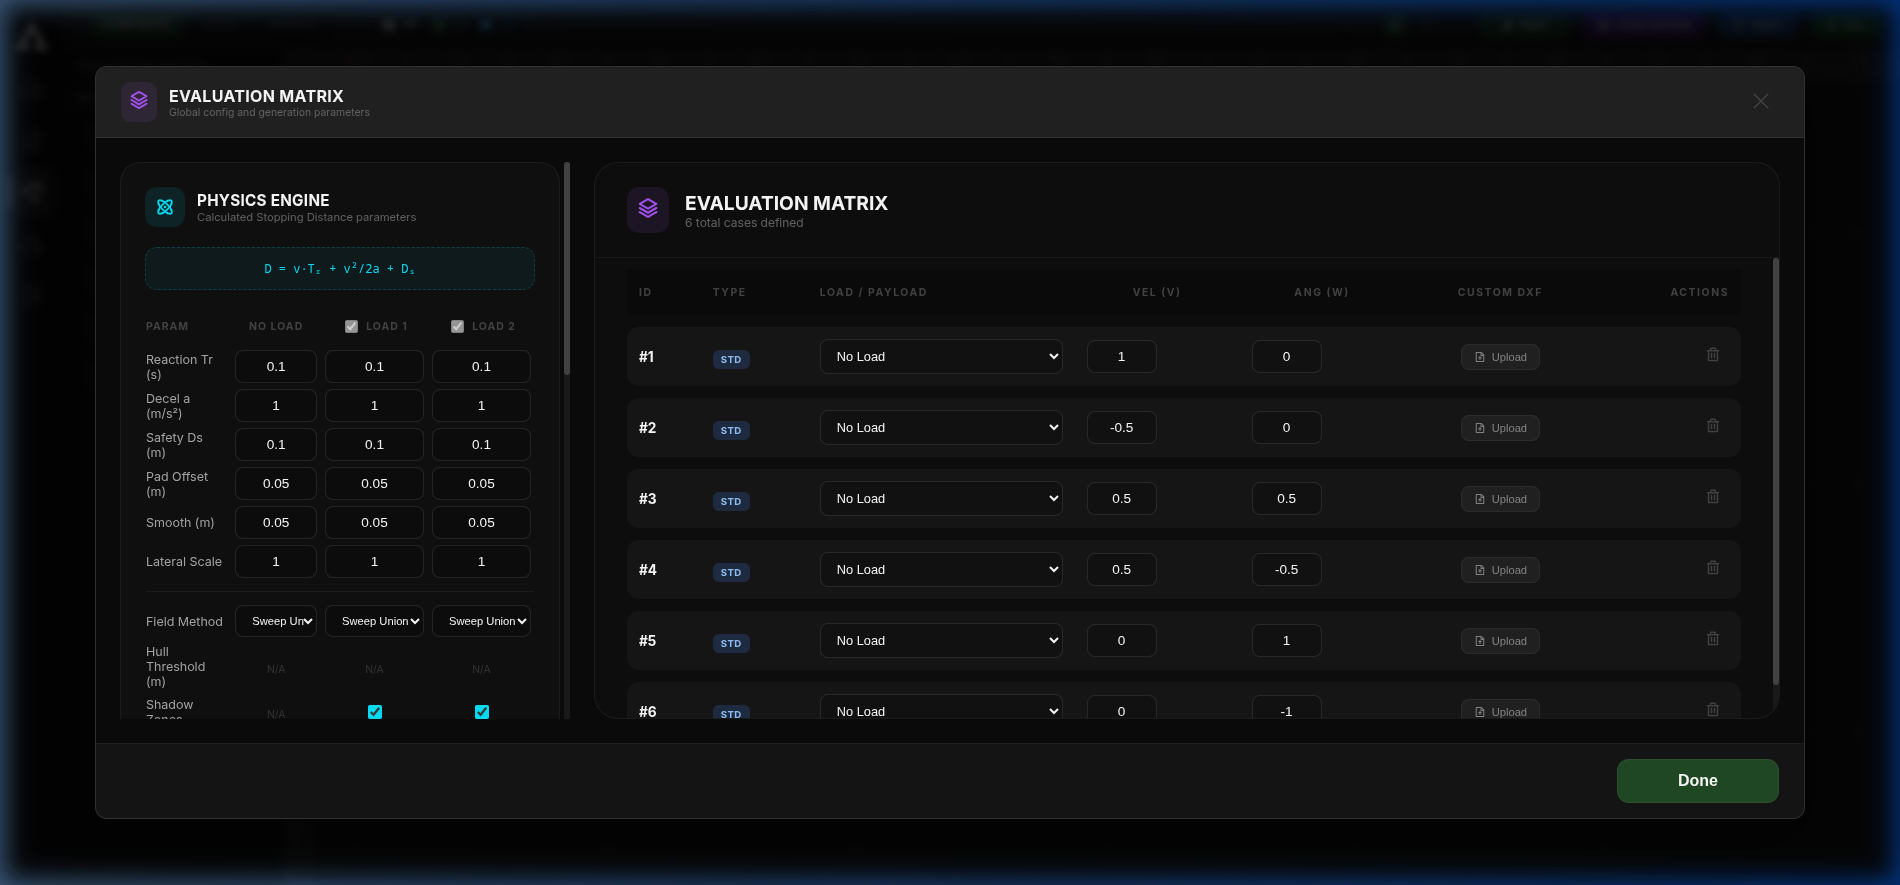
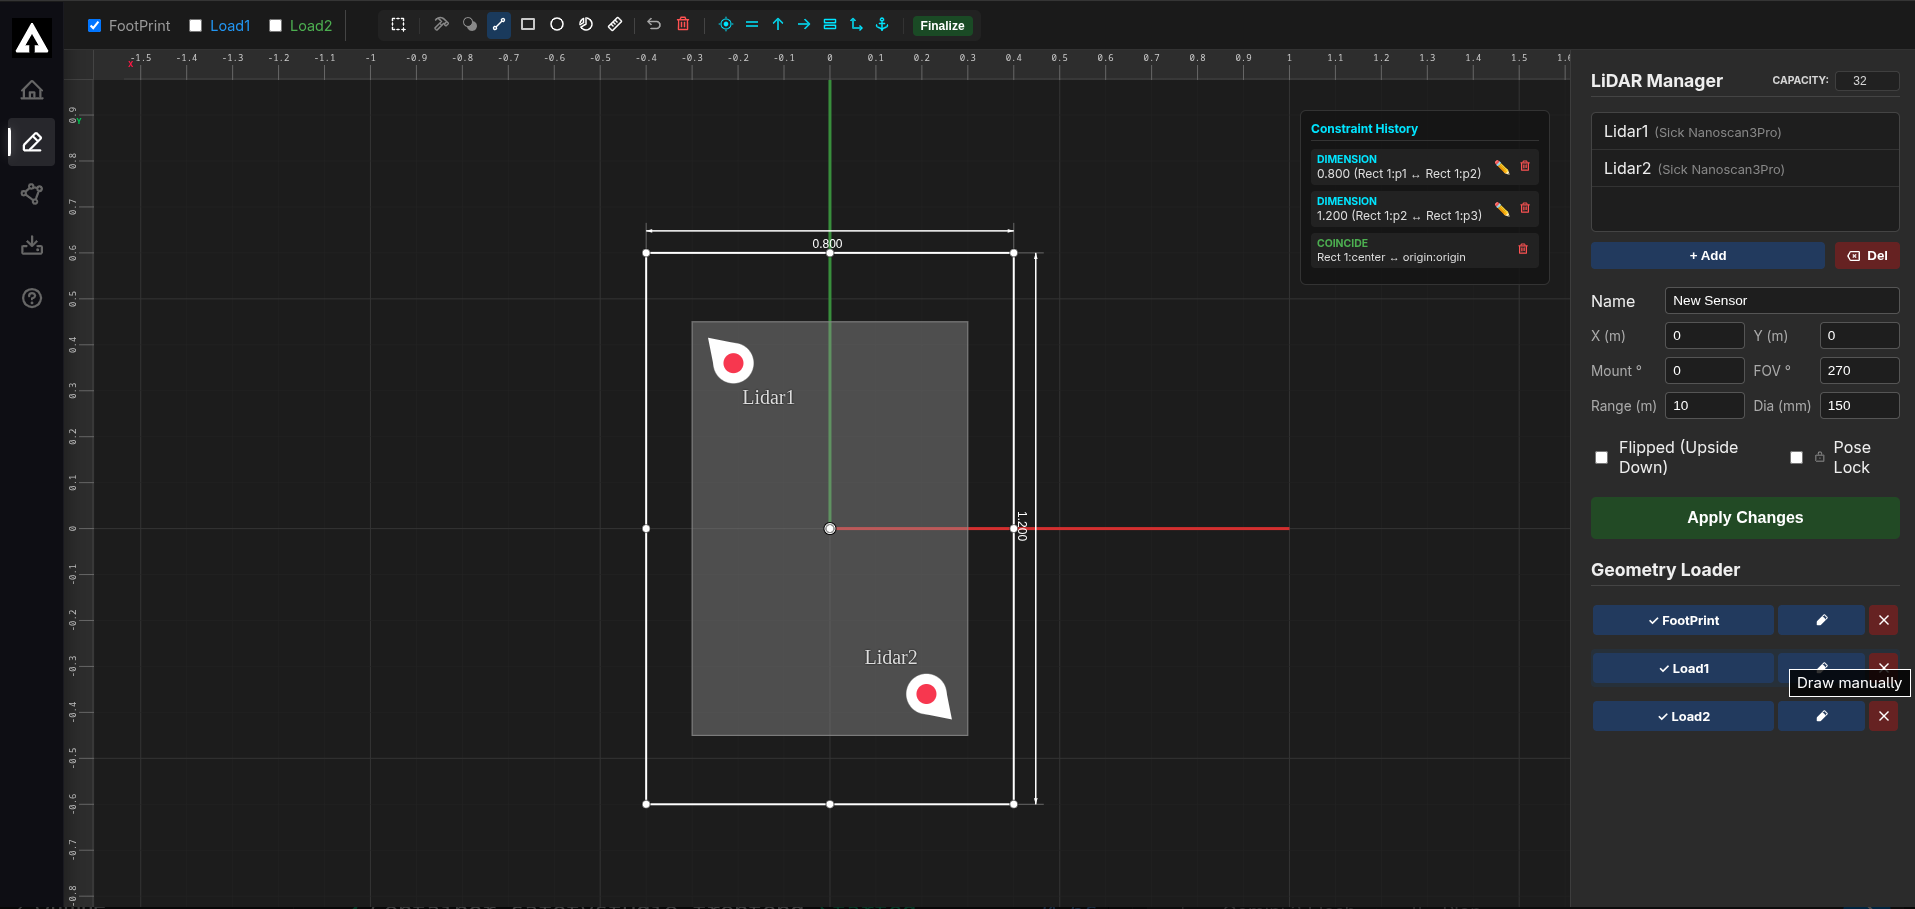
docs: exhaustive manual with thematic carousels and 26+ new screenshots

diff --git a/src/components/Help.js b/src/components/Help.js
@@ -1,7 +1,7 @@
 import React, { useState, useEffect } from 'react';
 import './Help.css';
 
-const ImageCarousel = ({ images, interval = 5000 }) => {
+const ImageCarousel = ({ images, interval = 6000 }) => {
   const [activeIndex, setActiveIndex] = useState(0);
 
   useEffect(() => {
@@ -17,7 +17,9 @@ const ImageCarousel = ({ images, interval = 5000 }) => {
         {images.map((img, idx) => (
           <div key={idx} className="carousel-slide">
             <img src={img.src} alt={img.alt} />
-            <div className="carousel-caption">{img.caption}</div>
+            <div className="carousel-caption">
+              <strong>{img.title}</strong>: {img.caption}
+            </div>
           </div>
         ))}
       </div>
@@ -37,15 +39,32 @@ const ImageCarousel = ({ images, interval = 5000 }) => {
 };
 
 const Help = () => {
+  const editorImages = [
+    { src: '/help/help_editor.png', title: 'CAD Foundation', alt: 'Editor Setup', caption: 'Defining the 900x600mm footprint and dual-corner LiDAR mounting.' },
+    { src: '/help/user_editor.png', title: 'Load Layers', alt: 'Load Setup', caption: 'Managing multiple payloads (Load 1 and Load 2) with distinct obstruction properties.' }
+  ];
+
+  const matrixImages = [
+    { src: '/help/help_matrix.png', title: 'Global Config', alt: 'Matrix Config', caption: 'Selecting field generation methods (Sweep Union vs Hybrid) and hull thresholds.' },
+    { src: '/help/help_matrix_generator.png', title: 'Case Generator', alt: 'Matrix Generator', caption: 'Automated generation of motion profiles across velocity intensities.' }
+  ];
+
   const resultImages = [
-    { src: '/help/user_results_composite.png', alt: 'Composite View', caption: 'Global Safety Field: The final merged protection zone.' },
-    { src: '/help/user_results_lidar.png', alt: 'LiDAR View', caption: 'Local Coordinate View: Field relative to the sensor lens.' },
-    { src: '/help/user_results_sweeps.png', alt: 'Sweeps View', caption: 'Trajectory Sweeps: Footprint path during braking.' }
+    { src: '/help/help_results_composite.png', title: 'Composite View', alt: 'Composite', caption: 'The final global safety field merged from all active sensors.' },
+    { src: '/help/help_results_lidar1.png', title: 'LiDAR 1 View', alt: 'Lidar1', caption: 'Local coordinate validation for the Front-Left sensor.' },
+    { src: '/help/help_results_lidar2.png', title: 'LiDAR 2 View', alt: 'Lidar2', caption: 'Local coordinate validation for the Rear-Right sensor.' },
+    { src: '/help/help_results_sweeps.png', title: 'Sweeps View', alt: 'Sweeps', caption: 'Visualizing the robot footprint trajectory during an emergency stop.' }
+  ];
+
+  const editingImages = [
+    { src: '/help/help_results_poly_edit.png', title: 'Polygon Editing', alt: 'Poly Edit', caption: 'Direct vertex manipulation: dragging nodes and adding new points to the field boundary.' },
+    { src: '/help/help_results_cad_union.png', title: 'CAD Union', alt: 'Union', caption: 'Merging additional CAD shapes into the generated safety field.' },
+    { src: '/help/help_results_cad_subtract.png', title: 'CAD Subtraction', alt: 'Subtract', caption: 'Carving out exclusion zones or complex apertures from the field geometry.' },
+    { src: '/help/help_results_cad_complex.png', title: 'Complex Intersections', alt: 'Complex', caption: 'Advanced boolean operations for high-precision field refinement.' }
   ];
 
   return (
     <div className="help-page-container">
-      {/* Table of Contents Sidebar */}
       <div className="help-sidebar">
         <h2 className="toc-title">User Manual</h2>
         <nav className="toc-nav">
@@ -71,125 +90,119 @@ const Help = () => {
         </nav>
       </div>
 
-      {/* Main Content Area */}
       <div className="help-content-area">
         <div id="introduction" className="help-doc-section">
           <h1 className="doc-main-title">Safety Studio User Manual</h1>
           <p className="doc-intro">
-            Safety Studio is a comprehensive engineering suite for the automated generation of safety fieldsets. 
-            This manual covers the complete workflow from defining robot geometry to deploying hardware-ready 
-            configurations.
+            Safety Studio is a premium engineering environment for the automated generation of LiDAR-based 
+            safety fieldsets. This manual provides a standalone workflow to design, simulate, and export 
+            safety configurations without external training.
           </p>
         </div>
 
         <hr className="doc-divider" />
 
-        {/* PHASE 1: EDITOR */}
         <div id="phase1-editor" className="help-doc-section">
-          <h2>Phase 1: Editor & Geometry Setup</h2>
+          <h2>Phase 1: Editor & Geometry Foundation</h2>
           <p>
-            The <strong>Editor</strong> is where you define the physical extents of your robot and its sensors. 
-            Before drawing, ensure you have selected the correct context (Footprint, Load 1, or Load 2) 
-            from the CAD toolbar.
+            The foundation of every project is the physical robot geometry. Use the professional CAD tools 
+            to define the robot base, its payloads, and LiDAR mounting positions.
           </p>
           
-          <div className="screenshot-container">
-            <img src="/help/user_editor.png" alt="Editor Setup" />
-            <p className="screenshot-caption">The CAD Editor: Defining a 900x600mm Footprint with multiple payloads.</p>
-          </div>
+          <ImageCarousel images={editorImages} />
 
           <h3 id="footprint">2.1. Robot Footprint</h3>
           <p>
-            Define your base robot geometry (e.g., 900mm x 600mm). For maximum precision, 
-            coincide the center of your footprint with the origin (0,0).
+            Define the base robot geometry (e.g., 900mm x 600mm). For precision, coincide the footprint 
+            center with the global origin (0,0).
           </p>
 
           <h3 id="sketching">2.2. CAD Sketching & Context</h3>
           <p>
-            <strong>IMPORTANT:</strong> Select the intended context in the toolbar before sketching. 
-            Shapes drawn in the <em>Footprint</em> context define the robot base, while those in <em>Load</em> 
-            contexts define payloads that might obstruct sensor views.
+            <strong>IMPORTANT:</strong> Always verify your active context (Footprint vs Load) in the toolbar. 
+            Shapes in the <em>Footprint</em> context define the robot's physical extents, while <em>Load</em> 
+            contexts define payloads that may obstruct sensor visibility.
           </p>
 
           <h3 id="sensors">2.3. Sensor Mounting</h3>
           <p>
-            Mount your LiDARs at strategic positions relative to the robot's center. A standard setup for 
-            360&deg; coverage might include a <strong>Front-Left</strong> and a <strong>Rear-Right</strong> sensor.
+            LiDARs are positioned relative to the robot origin. A dual-corner setup (Front-Left and 
+            Rear-Right) provides 360&deg; coverage.
           </p>
         </div>
 
         <hr className="doc-divider" />
 
-        {/* PHASE 2: MATRIX & GENERATION */}
         <div id="phase2-matrix" className="help-doc-section">
           <h2>Phase 2: Matrix & Case Generation</h2>
           <p>
-            The <strong>Matrix</strong> tab manages the kinematic scenarios and physical parameters 
-            for automated field generation.
+            The <strong>Matrix</strong> tab manages motion scenarios and braking physics.
           </p>
+          
+          <ImageCarousel images={matrixImages} />
 
           <h3 id="matrix-config">3.1. Case Generation</h3>
           <p>
             The <strong>Matrix Generator</strong> builds a comprehensive library of motion profiles. 
-            Define your velocity increments and motion types (Linear, Angular, Spin), then click 
-            <strong>Generate All Cases</strong>. The system will calculate braking distances for every step.
+            Set your velocity increments and motion types, then click <strong>Generate All Cases</strong>. 
+            The system calculates stopping distances based on Reaction Time (Tr) and Deceleration (a).
           </p>
-          
-          <div className="screenshot-container">
-            <img src="/help/user_matrix.png" alt="Evaluation Matrix" />
-            <p className="screenshot-caption">Matrix View: Configuring motion profiles and safety parameters.</p>
-          </div>
 
           <h3 id="shadow-mgmt">3.2. Shadow Management</h3>
           <p>
-            Manage how payloads interact with sensor views. You can toggle shadow calculation 
-            per load. For example, an internal component may be set to <strong>No Shadow</strong>, 
-            while external forks are set to <strong>With Shadow</strong> to cast realistic blind spots.
+            Payloads can cast realistic <strong>Shadow Zones</strong>. Toggle shadow calculation 
+            per load to account for physical obstructions in the sensor's line-of-sight.
           </p>
         </div>
 
         <hr className="doc-divider" />
 
-        {/* PHASE 3: RESULTS & CAROUSEL */}
         <div id="phase3-results" className="help-doc-section">
-          <h2>Phase 3: Validation & Advanced Refinement</h2>
+          <h2>Phase 3: Results & Validation</h2>
           <p>
-            The <strong>Results</strong> tab provides high-fidelity visualization and manual editing tools.
+            The <strong>Results</strong> tab provides interactive tools to validate and manually refine 
+            the generated fields.
           </p>
 
-          <h3 id="view-carousel">4.1. Visual Validation Modes</h3>
-          <p>
-            Inspect the generated fields from different perspectives using the interactive viewer.
-          </p>
+          <h3 id="view-carousel">4.1. Visual Validation</h3>
+          <p>Cycle through different perspective views to ensure full protection coverage.</p>
           
           <ImageCarousel images={resultImages} />
 
           <h3 id="poly-edit">4.2. Polygon Editing</h3>
           <p>
-            Manually refine fields by dragging vertices, clicking edges to add new points, 
-            or using the Delete key to remove unnecessary vertices.
+            For fine adjustments, use <strong>Polygon Edit Mode</strong> to drag vertices or 
+            add/remove nodes from the boundary.
           </p>
 
-          <h3 id="result-cad">4.3. CAD-Based Union/Subtract</h3>
+          <h3 id="result-cad">4.3. CAD Refinement</h3>
           <p>
-            Apply boolean operations directly to the result. Use <strong>Subtract</strong> mode 
-            to manually remove parts of the safety field where monitoring is not required.
+            Apply boolean operations (Union/Subtract) directly to the result polygons for complex 
+            environmental requirements.
           </p>
-          <div className="screenshot-container">
-            <img src="/help/user_results_cad_subtract.png" alt="CAD Result Editing" />
-            <p className="screenshot-caption">CAD Refinement: Customizing field geometry using subtraction.</p>
-          </div>
+
+          <ImageCarousel images={editingImages} />
         </div>
 
         <hr className="doc-divider" />
 
-        {/* PHASE 4: HARDWARE */}
         <div id="phase4-hardware" className="help-doc-section">
-          <h2>Phase 4: Hardware Deployment</h2>
+          <h2>Phase 4: Hardware Mapping & Export</h2>
           <p>
-            Once validated, map your cases to physical fieldsets and export to 
-            <strong>SICK (.sdxml)</strong> or <strong>Leuze (.csv)</strong> formats.
+            The final stage maps validated fields to physical LiDAR fieldsets (1-128) and exports 
+            deployment files.
           </p>
+          
+          <div className="screenshot-container">
+            <img src="/help/help_hardware.png" alt="Hardware Export" />
+            <p className="screenshot-caption">Hardware Mapping: Preparing deployment files for SICK and Leuze sensors.</p>
+          </div>
+          
+          <ul>
+            <li><strong>SICK Export:</strong> Generates .sdxml for Safety Designer.</li>
+            <li><strong>Leuze Export:</strong> Generates CSV mapping for Leuze devices.</li>
+            <li><strong>Safety Report:</strong> Downloads a comprehensive project summary.</li>
+          </ul>
         </div>
 
         <div className="help-footer-official">